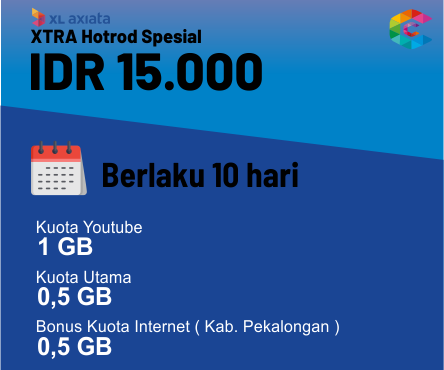
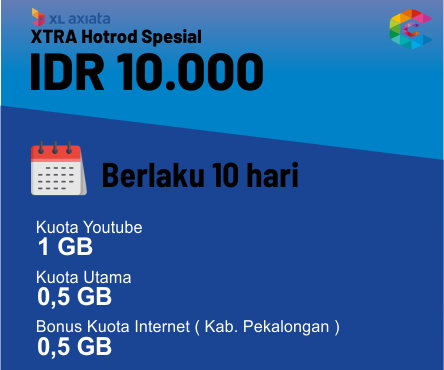
update

Changed region(s): [[0.2928, 0.1486, 0.6149, 0.2676]]

diff --git a/index.html b/index.html
@@ -155,16 +155,33 @@
 </div>
 <div class="col-lg-4 col-sm-6 mb-4">
 <div class="card border-0 text-center">
+<a href=https://masawan1.github.io/cloudycell/products/xtra-hotrod-spesial-4gb/>
+<img src=https://masawan1.github.io/cloudycell/images/products/xtra-hotrod-spesial-4gb.png alt class=card-img-top>
+</a>
+<div class=card-body>
+<a href=https://masawan1.github.io/cloudycell/products/xtra-hotrod-spesial-4gb/ class=h4>Xtra Hotrod Spesial 4GB</a>
+<p>Rp. 12.000</p>
+<div class=mb-4>
+<span class="lead text-primary">$</span>
+</div>
+<button class="snipcart-add-item btn btn-sm btn-outline-primary" data-item-id=10 data-item-name="Xtra Hotrod Spesial 4GB" data-item-image=https://masawan1.github.io/cloudycell/images/products/xtra-hotrod-spesial-4gb.png data-item-price data-item-url=https://masawan1.github.io/cloudycell/products/xtra-hotrod-spesial-4gb/ data-item-description="Rp. 12.000">
+Add to cart
+</button>
+</div>
+</div>
+</div>
+<div class="col-lg-4 col-sm-6 mb-4">
+<div class="card border-0 text-center">
 <a href=https://masawan1.github.io/cloudycell/products/xtra-hotrod-spesial-3gb/>
 <img src=https://masawan1.github.io/cloudycell/images/products/xtra-hotrod-spesial-3gb.png alt class=card-img-top>
 </a>
 <div class=card-body>
 <a href=https://masawan1.github.io/cloudycell/products/xtra-hotrod-spesial-3gb/ class=h4>Xtra Hotrod Spesial 3GB</a>
-<p>Rp. 15.000</p>
+<p>Rp. 10.000</p>
 <div class=mb-4>
-<span class="lead text-primary">$1,06</span>
+<span class="lead text-primary">$</span>
 </div>
-<button class="snipcart-add-item btn btn-sm btn-outline-primary" data-item-id=9 data-item-name="Xtra Hotrod Spesial 3GB" data-item-image=https://masawan1.github.io/cloudycell/images/products/xtra-hotrod-spesial-3gb.png data-item-price=1,06 data-item-url=https://masawan1.github.io/cloudycell/products/xtra-hotrod-spesial-3gb/ data-item-description="Rp. 15.000">
+<button class="snipcart-add-item btn btn-sm btn-outline-primary" data-item-id=9 data-item-name="Xtra Hotrod Spesial 3GB" data-item-image=https://masawan1.github.io/cloudycell/images/products/xtra-hotrod-spesial-3gb.png data-item-price data-item-url=https://masawan1.github.io/cloudycell/products/xtra-hotrod-spesial-3gb/ data-item-description="Rp. 10.000">
 Add to cart
 </button>
 </div>
@@ -234,23 +251,6 @@ Add to cart
 <span class="lead text-primary">$</span>
 </div>
 <button class="snipcart-add-item btn btn-sm btn-outline-primary" data-item-id=4 data-item-name="Free Fire" data-item-image=https://masawan1.github.io/cloudycell/images/products/product-4-ff.png data-item-price data-item-url=https://masawan1.github.io/cloudycell/products/freefire/ data-item-description="Harga Mulai dari Rp. 8.000">
-Add to cart
-</button>
-</div>
-</div>
-</div>
-<div class="col-lg-4 col-sm-6 mb-4">
-<div class="card border-0 text-center">
-<a href=https://masawan1.github.io/cloudycell/products/powerbank-vivan/>
-<img src=https://masawan1.github.io/cloudycell/images/products/product-3-Vivan%20VPB-X10.png alt class=card-img-top>
-</a>
-<div class=card-body>
-<a href=https://masawan1.github.io/cloudycell/products/powerbank-vivan/ class=h4>Powerbank Vivan 10000mAh</a>
-<p>Rp. 160.000</p>
-<div class=mb-4>
-<span class="lead text-primary">$11.2016</span>
-</div>
-<button class="snipcart-add-item btn btn-sm btn-outline-primary" data-item-id=3 data-item-name="Powerbank Vivan 10000mAh" data-item-image=https://masawan1.github.io/cloudycell/images/products/product-3-Vivan%20VPB-X10.png data-item-price=11.2016 data-item-url=https://masawan1.github.io/cloudycell/products/powerbank-vivan/ data-item-description="Rp. 160.000">
 Add to cart
 </button>
 </div>

diff --git a/products/xtra-hotrod-spesial-4gb/index.html b/products/xtra-hotrod-spesial-4gb/index.html
@@ -1,8 +1,8 @@
 <!doctype html><html lang=id-id><head>
 <meta charset=utf-8>
-<title>Xtra Hotrod Spesial 3GB</title>
+<title>Xtra Hotrod Spesial 4GB</title>
 <meta name=viewport content="width=device-width,initial-scale=1">
-<meta name=description content="Rp. 10.000">
+<meta name=description content="Rp. 12.000">
 <meta name=author content="Themefisher">
 <meta name=generator content="Hugo 0.88.1">
 <link rel=stylesheet href=https://masawan1.github.io/cloudycell/plugins/bootstrap/bootstrap.min.css>
@@ -53,11 +53,11 @@
 <div class=container>
 <div class=row>
 <div class=col-12>
-<h2>Xtra Hotrod Spesial 3GB</h2>
+<h2>Xtra Hotrod Spesial 4GB</h2>
 <nav aria-label=breadcrumb>
 <ol class="breadcrumb bg-transparent p-0">
 <li class=breadcrumb-item><a class=text-dark href=https://masawan1.github.io/cloudycell>Beranda</a></li>
-<li class="breadcrumb-item active" aria-current=page>Xtra Hotrod Spesial 3GB</li>
+<li class="breadcrumb-item active" aria-current=page>Xtra Hotrod Spesial 4GB</li>
 </ol>
 </nav>
 </div>
@@ -69,20 +69,20 @@
 <div class=row>
 <div class="col-lg-5 mb-4 mb-lg-0">
 <div class=product-slider>
-<div data-image=https://masawan1.github.io/cloudycell/images/products/xtra-hotrod-spesial-3gb.png>
-<img class="img-fluid w-100" src=https://masawan1.github.io/cloudycell/images/products/xtra-hotrod-spesial-3gb.png alt=product-img>
+<div data-image=https://masawan1.github.io/cloudycell/images/products/xtra-hotrod-spesial-4gb.png>
+<img class="img-fluid w-100" src=https://masawan1.github.io/cloudycell/images/products/xtra-hotrod-spesial-4gb.png alt=product-img>
 </div>
 </div>
 </div>
 <div class="col-lg-5 offset-lg-1">
-<h4 class=font-weight-medium>Xtra Hotrod Spesial 3GB</h4>
+<h4 class=font-weight-medium>Xtra Hotrod Spesial 4GB</h4>
 <div class=rw-ui-container></div>
 <div class=my-4>
 <span class="lead text-primary font-weight-medium">$</span>
 </div>
 <h5>Short Description</h5>
-<p>XL 3 GB 10 Hari Xtra Hotrod Special</p>
-<button class="snipcart-add-item btn btn-primary" data-item-id=9 data-item-name="Xtra Hotrod Spesial 3GB" data-item-image=https://masawan1.github.io/cloudycell/images/products/xtra-hotrod-spesial-3gb.png data-item-price data-item-url=https://masawan1.github.io/cloudycell/products/xtra-hotrod-spesial-3gb/ data-item-description="Rp. 10.000">
+<p>XL 4 GB 10 Hari Xtra Hotrod Special</p>
+<button class="snipcart-add-item btn btn-primary" data-item-id=10 data-item-name="Xtra Hotrod Spesial 4GB" data-item-image=https://masawan1.github.io/cloudycell/images/products/xtra-hotrod-spesial-4gb.png data-item-price data-item-url=https://masawan1.github.io/cloudycell/products/xtra-hotrod-spesial-4gb/ data-item-description="Rp. 12.000">
 Add to cart
 </button>
 </div>
@@ -97,14 +97,14 @@ Add to cart
 </ul>
 <div class=tab-content id=myTabContent>
 <div class="tab-pane fade show active" id=description role=tabpanel aria-labelledby=description-tab>
-<div class=content><p>Xtra Hotrod Spesial 3GB Rp. 10.000</p>
+<div class=content><p>Xtra Hotrod Spesial 4GB Rp. 12.000</p>
 <p>Rincian Kuota:</p>
 <ul>
 <li>Kuota BERLAKU untuk 41 Kota (dapat di cek di bit.ly/Kota-XHRS-XCS )</li>
 <li>Pembagian Kuota:
-Kuota Nasional: 0,5 GB
+Kuota Nasional: 1 GB
 Youtube Nasional: - GB
-Kuota Area: 1,5 GB
+Kuota Area: 4.5 GB
 Youtube Area: 1 GB</li>
 <li>Masa aktif kartu setelah diisi paket adalah 10 hari</li>
 </ul>

diff --git a/products/index.html b/products/index.html
@@ -69,16 +69,33 @@
 <div class=row>
 <div class="col-lg-4 col-sm-6 mb-4">
 <div class="card border-0 text-center">
+<a href=https://masawan1.github.io/cloudycell/products/xtra-hotrod-spesial-4gb/>
+<img src=https://masawan1.github.io/cloudycell/images/products/xtra-hotrod-spesial-4gb.png alt class=card-img-top>
+</a>
+<div class=card-body>
+<a href=https://masawan1.github.io/cloudycell/products/xtra-hotrod-spesial-4gb/ class=h4>Xtra Hotrod Spesial 4GB</a>
+<p>Rp. 12.000</p>
+<div class=mb-4>
+<span class="lead text-primary">$</span>
+</div>
+<button class="snipcart-add-item btn btn-sm btn-outline-primary" data-item-id=10 data-item-name="Xtra Hotrod Spesial 4GB" data-item-image=https://masawan1.github.io/cloudycell/images/products/xtra-hotrod-spesial-4gb.png data-item-price data-item-url=https://masawan1.github.io/cloudycell/products/xtra-hotrod-spesial-4gb/ data-item-description="Rp. 12.000">
+Add to cart
+</button>
+</div>
+</div>
+</div>
+<div class="col-lg-4 col-sm-6 mb-4">
+<div class="card border-0 text-center">
 <a href=https://masawan1.github.io/cloudycell/products/xtra-hotrod-spesial-3gb/>
 <img src=https://masawan1.github.io/cloudycell/images/products/xtra-hotrod-spesial-3gb.png alt class=card-img-top>
 </a>
 <div class=card-body>
 <a href=https://masawan1.github.io/cloudycell/products/xtra-hotrod-spesial-3gb/ class=h4>Xtra Hotrod Spesial 3GB</a>
-<p>Rp. 15.000</p>
+<p>Rp. 10.000</p>
 <div class=mb-4>
-<span class="lead text-primary">$1,06</span>
+<span class="lead text-primary">$</span>
 </div>
-<button class="snipcart-add-item btn btn-sm btn-outline-primary" data-item-id=9 data-item-name="Xtra Hotrod Spesial 3GB" data-item-image=https://masawan1.github.io/cloudycell/images/products/xtra-hotrod-spesial-3gb.png data-item-price=1,06 data-item-url=https://masawan1.github.io/cloudycell/products/xtra-hotrod-spesial-3gb/ data-item-description="Rp. 15.000">
+<button class="snipcart-add-item btn btn-sm btn-outline-primary" data-item-id=9 data-item-name="Xtra Hotrod Spesial 3GB" data-item-image=https://masawan1.github.io/cloudycell/images/products/xtra-hotrod-spesial-3gb.png data-item-price data-item-url=https://masawan1.github.io/cloudycell/products/xtra-hotrod-spesial-3gb/ data-item-description="Rp. 10.000">
 Add to cart
 </button>
 </div>
